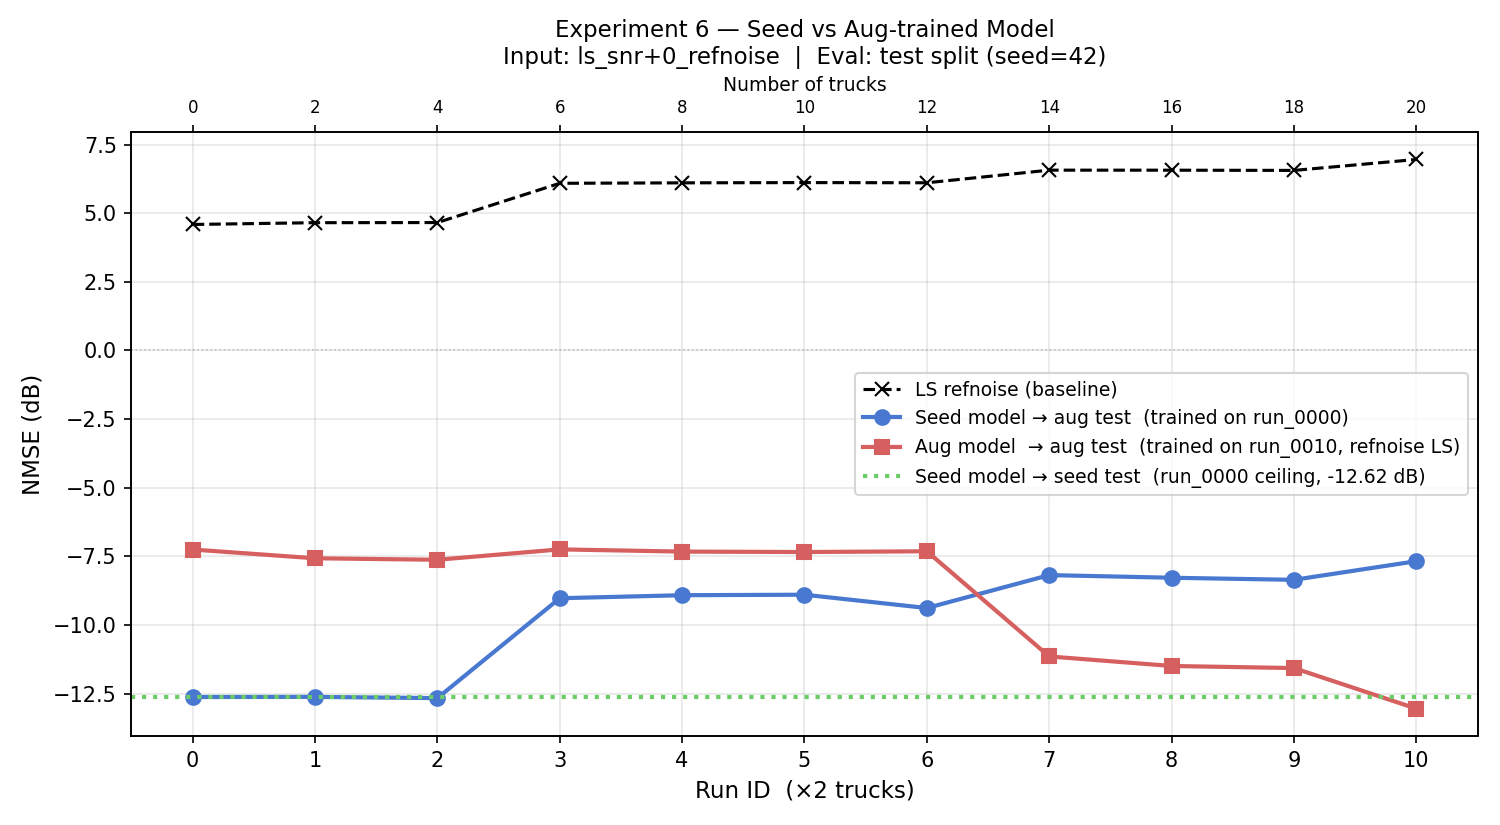
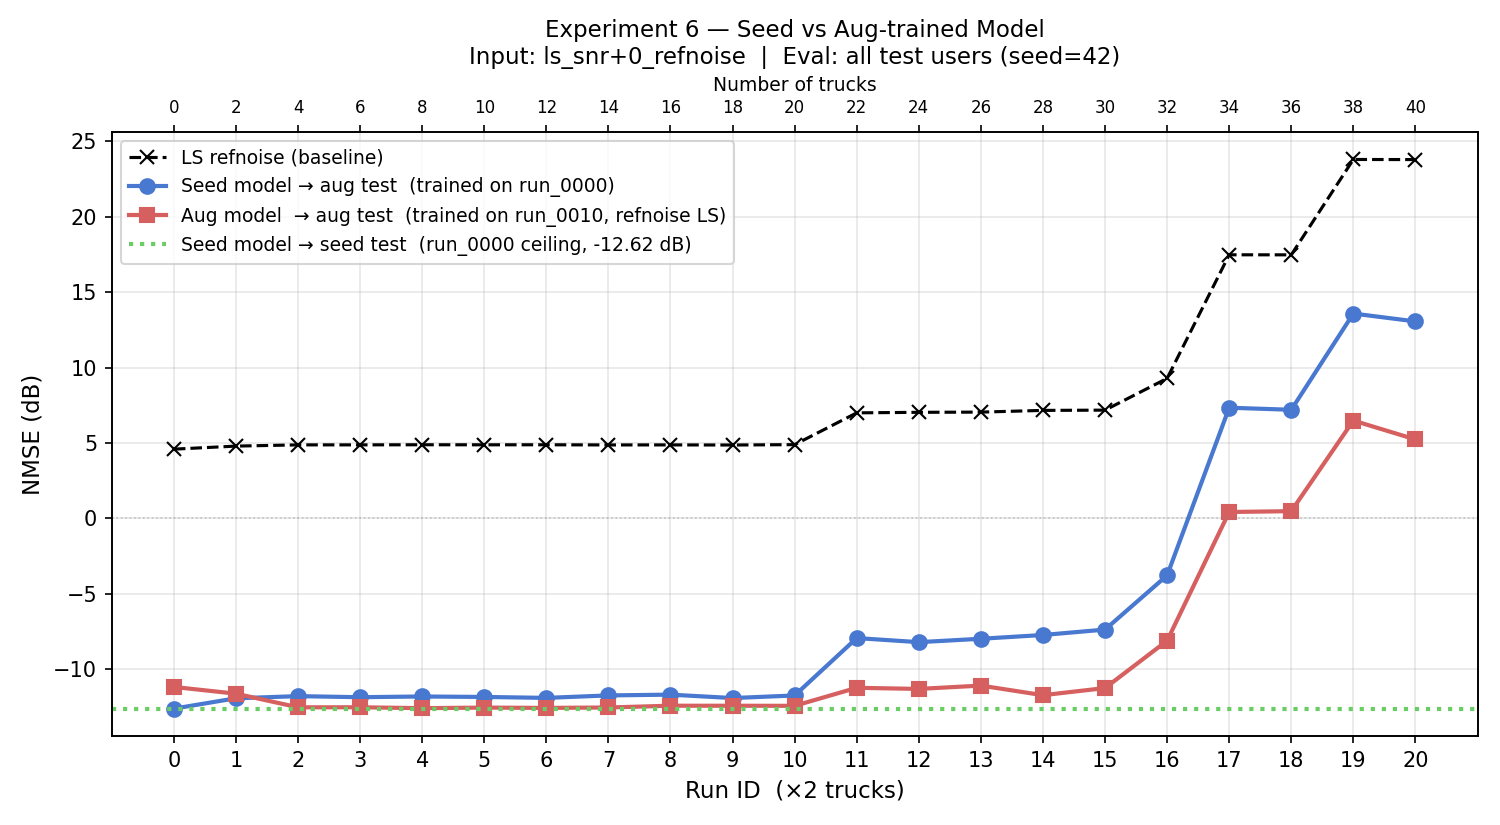
blocked only plot too

diff --git a/scripts/experiment6.py b/scripts/experiment6.py
@@ -45,6 +45,7 @@ import matplotlib.pyplot as plt
 
 from Model import ImprovedPhysicsInformedUNet, create_datasets, set_seed
 from find_in_map import RSSMapProcessor
+from torch.utils.data import Subset
 
 # ── constants ─────────────────────────────────────────────────────────────────
 RSS_IMAGE   = "Dataset/50_15GHz.jpg"
@@ -99,6 +100,8 @@ def main():
     parser.add_argument("--out-dir",    default="plots")
     parser.add_argument("--device",     default="cuda" if torch.cuda.is_available() else "cpu")
     parser.add_argument("--batch-size", type=int, default=BATCH_SIZE)
+    parser.add_argument("--blocked",    action="store_true",
+                        help="Evaluate only on blocked users in the test split")
     args = parser.parse_args()
 
     os.makedirs(args.out_dir, exist_ok=True)
@@ -157,15 +160,34 @@ def main():
             rss_processor=rss_processor,
         )
 
+        ch_arr = np.load(ch_path, mmap_mode="r")
+        ls_arr = np.load(ls_path, mmap_mode="r")
+
+        # optionally restrict to blocked users only
+        eval_indices = test_ds.indices
+        eval_ds      = test_ds
+        if args.blocked:
+            mask_path = os.path.join(run_dir, "blocked_mask.npy")
+            if not os.path.exists(mask_path):
+                print(f"  SKIP --blocked: blocked_mask.npy missing")
+                continue
+            blocked_mask = np.load(mask_path)
+            blocked_set  = set(np.where(blocked_mask)[0])
+            local_pos    = [i for i, ri in enumerate(test_ds.indices) if ri in blocked_set]
+            if not local_pos:
+                print(f"  SKIP --blocked: no blocked users in test split")
+                continue
+            eval_indices = test_ds.indices[np.array(local_pos)]
+            eval_ds      = Subset(test_ds, local_pos)
+            print(f"  --blocked: {len(eval_indices)}/{len(test_ds.indices)} test users are blocked")
+
         test_loader = DataLoader(
-            test_ds, batch_size=args.batch_size,
+            eval_ds, batch_size=args.batch_size,
             shuffle=False, num_workers=2, pin_memory=True,
         )
 
         # LS refnoise baseline
-        ch_arr = np.load(ch_path, mmap_mode="r")
-        ls_arr = np.load(ls_path, mmap_mode="r")
-        ls_nmse = nmse_db_arrays(ls_arr, ch_arr, test_ds.indices)
+        ls_nmse = nmse_db_arrays(ls_arr, ch_arr, eval_indices)
 
         # seed model on this run's test split (refnoise LS input)
         seed_nmse = model_nmse_db(seed_model, test_loader, device)
@@ -225,9 +247,10 @@ def main():
     ax.set_xticklabels([str(r) for r in run_ids])
     ax.set_xlabel("Run ID  (×2 trucks)", fontsize=11)
     ax.set_ylabel("NMSE (dB)", fontsize=11)
+    subset_label = "blocked users only" if args.blocked else "all test users"
     ax.set_title(
-        "Experiment 6 — Seed vs Aug-trained Model\n"
-        "Input: ls_snr+0_refnoise  |  Eval: test split (seed=42)",
+        f"Experiment 6 — Seed vs Aug-trained Model\n"
+        f"Input: ls_snr+0_refnoise  |  Eval: {subset_label} (seed=42)",
         fontsize=11,
     )
     ax.legend(fontsize=9, loc="best")
@@ -242,7 +265,7 @@ def main():
     ax2.set_xlabel("Number of trucks", fontsize=9)
 
     fig.tight_layout()
-    out_path = os.path.join(args.out_dir, "experiment6.png")
+    out_path = os.path.join(args.out_dir, "experiment6_blocked.png" if args.blocked else "experiment6.png")
     fig.savefig(out_path, dpi=150)
     plt.close(fig)
     print(f"Plot → {out_path}")